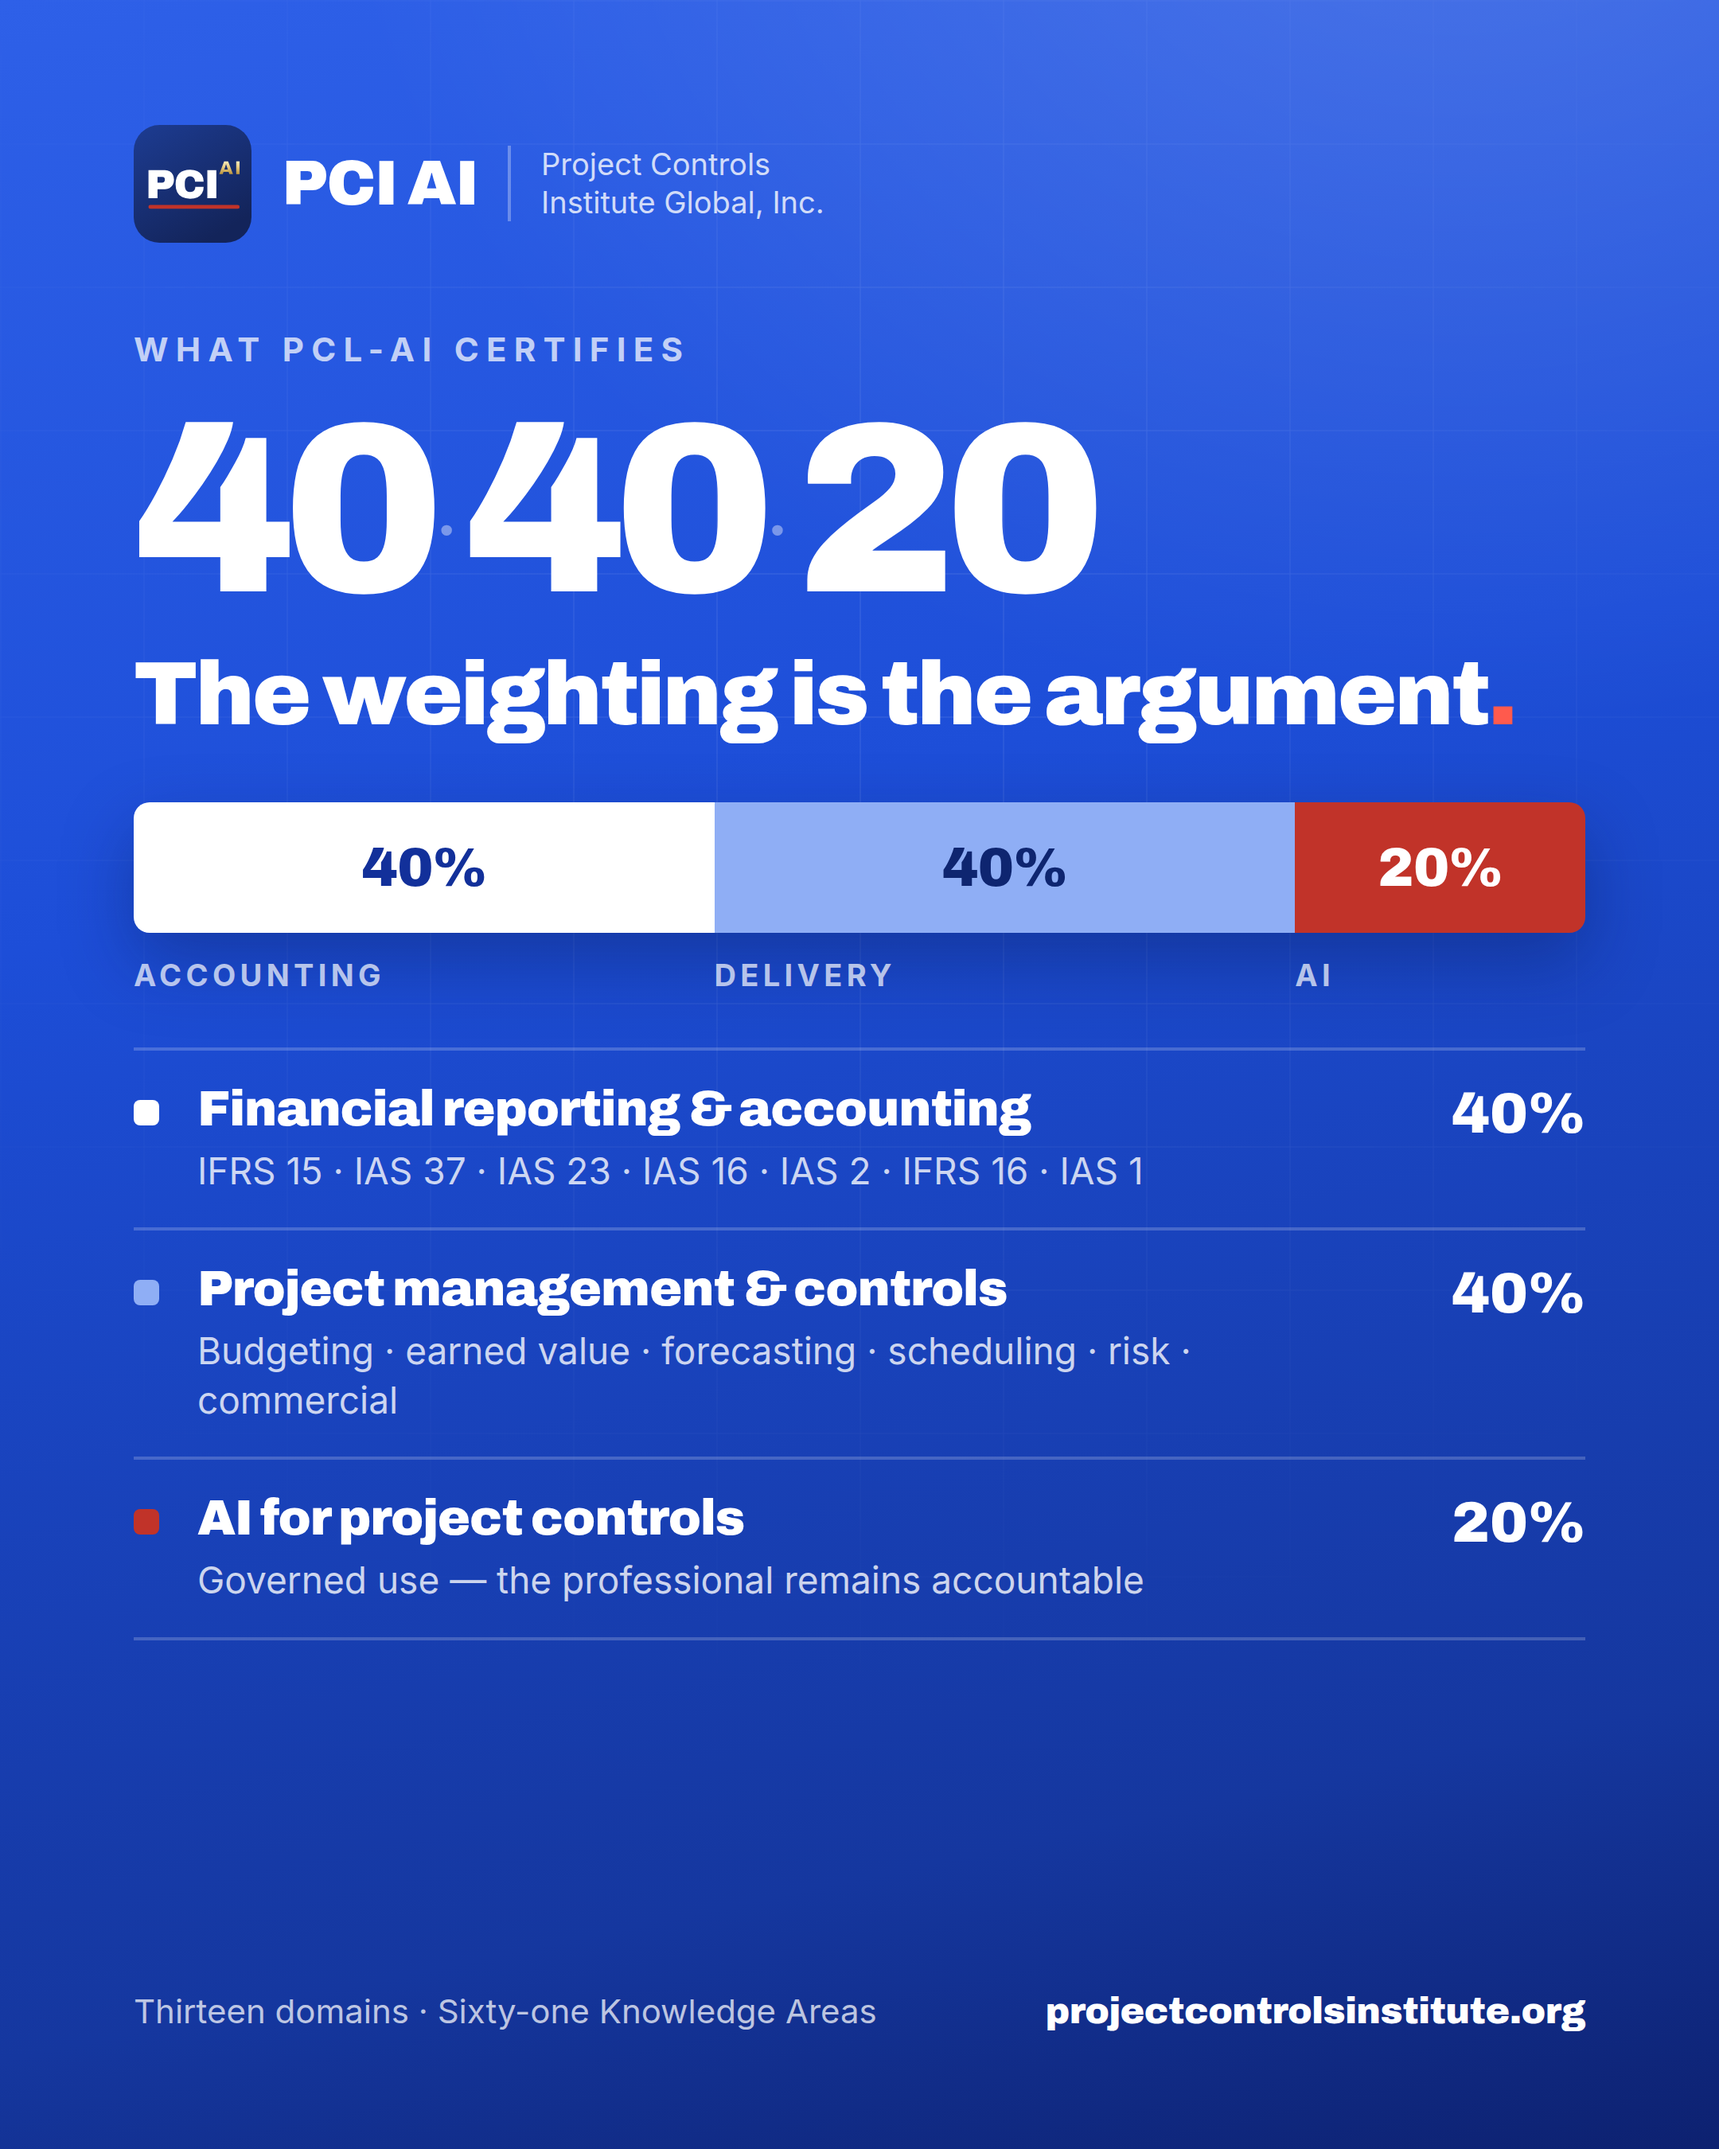
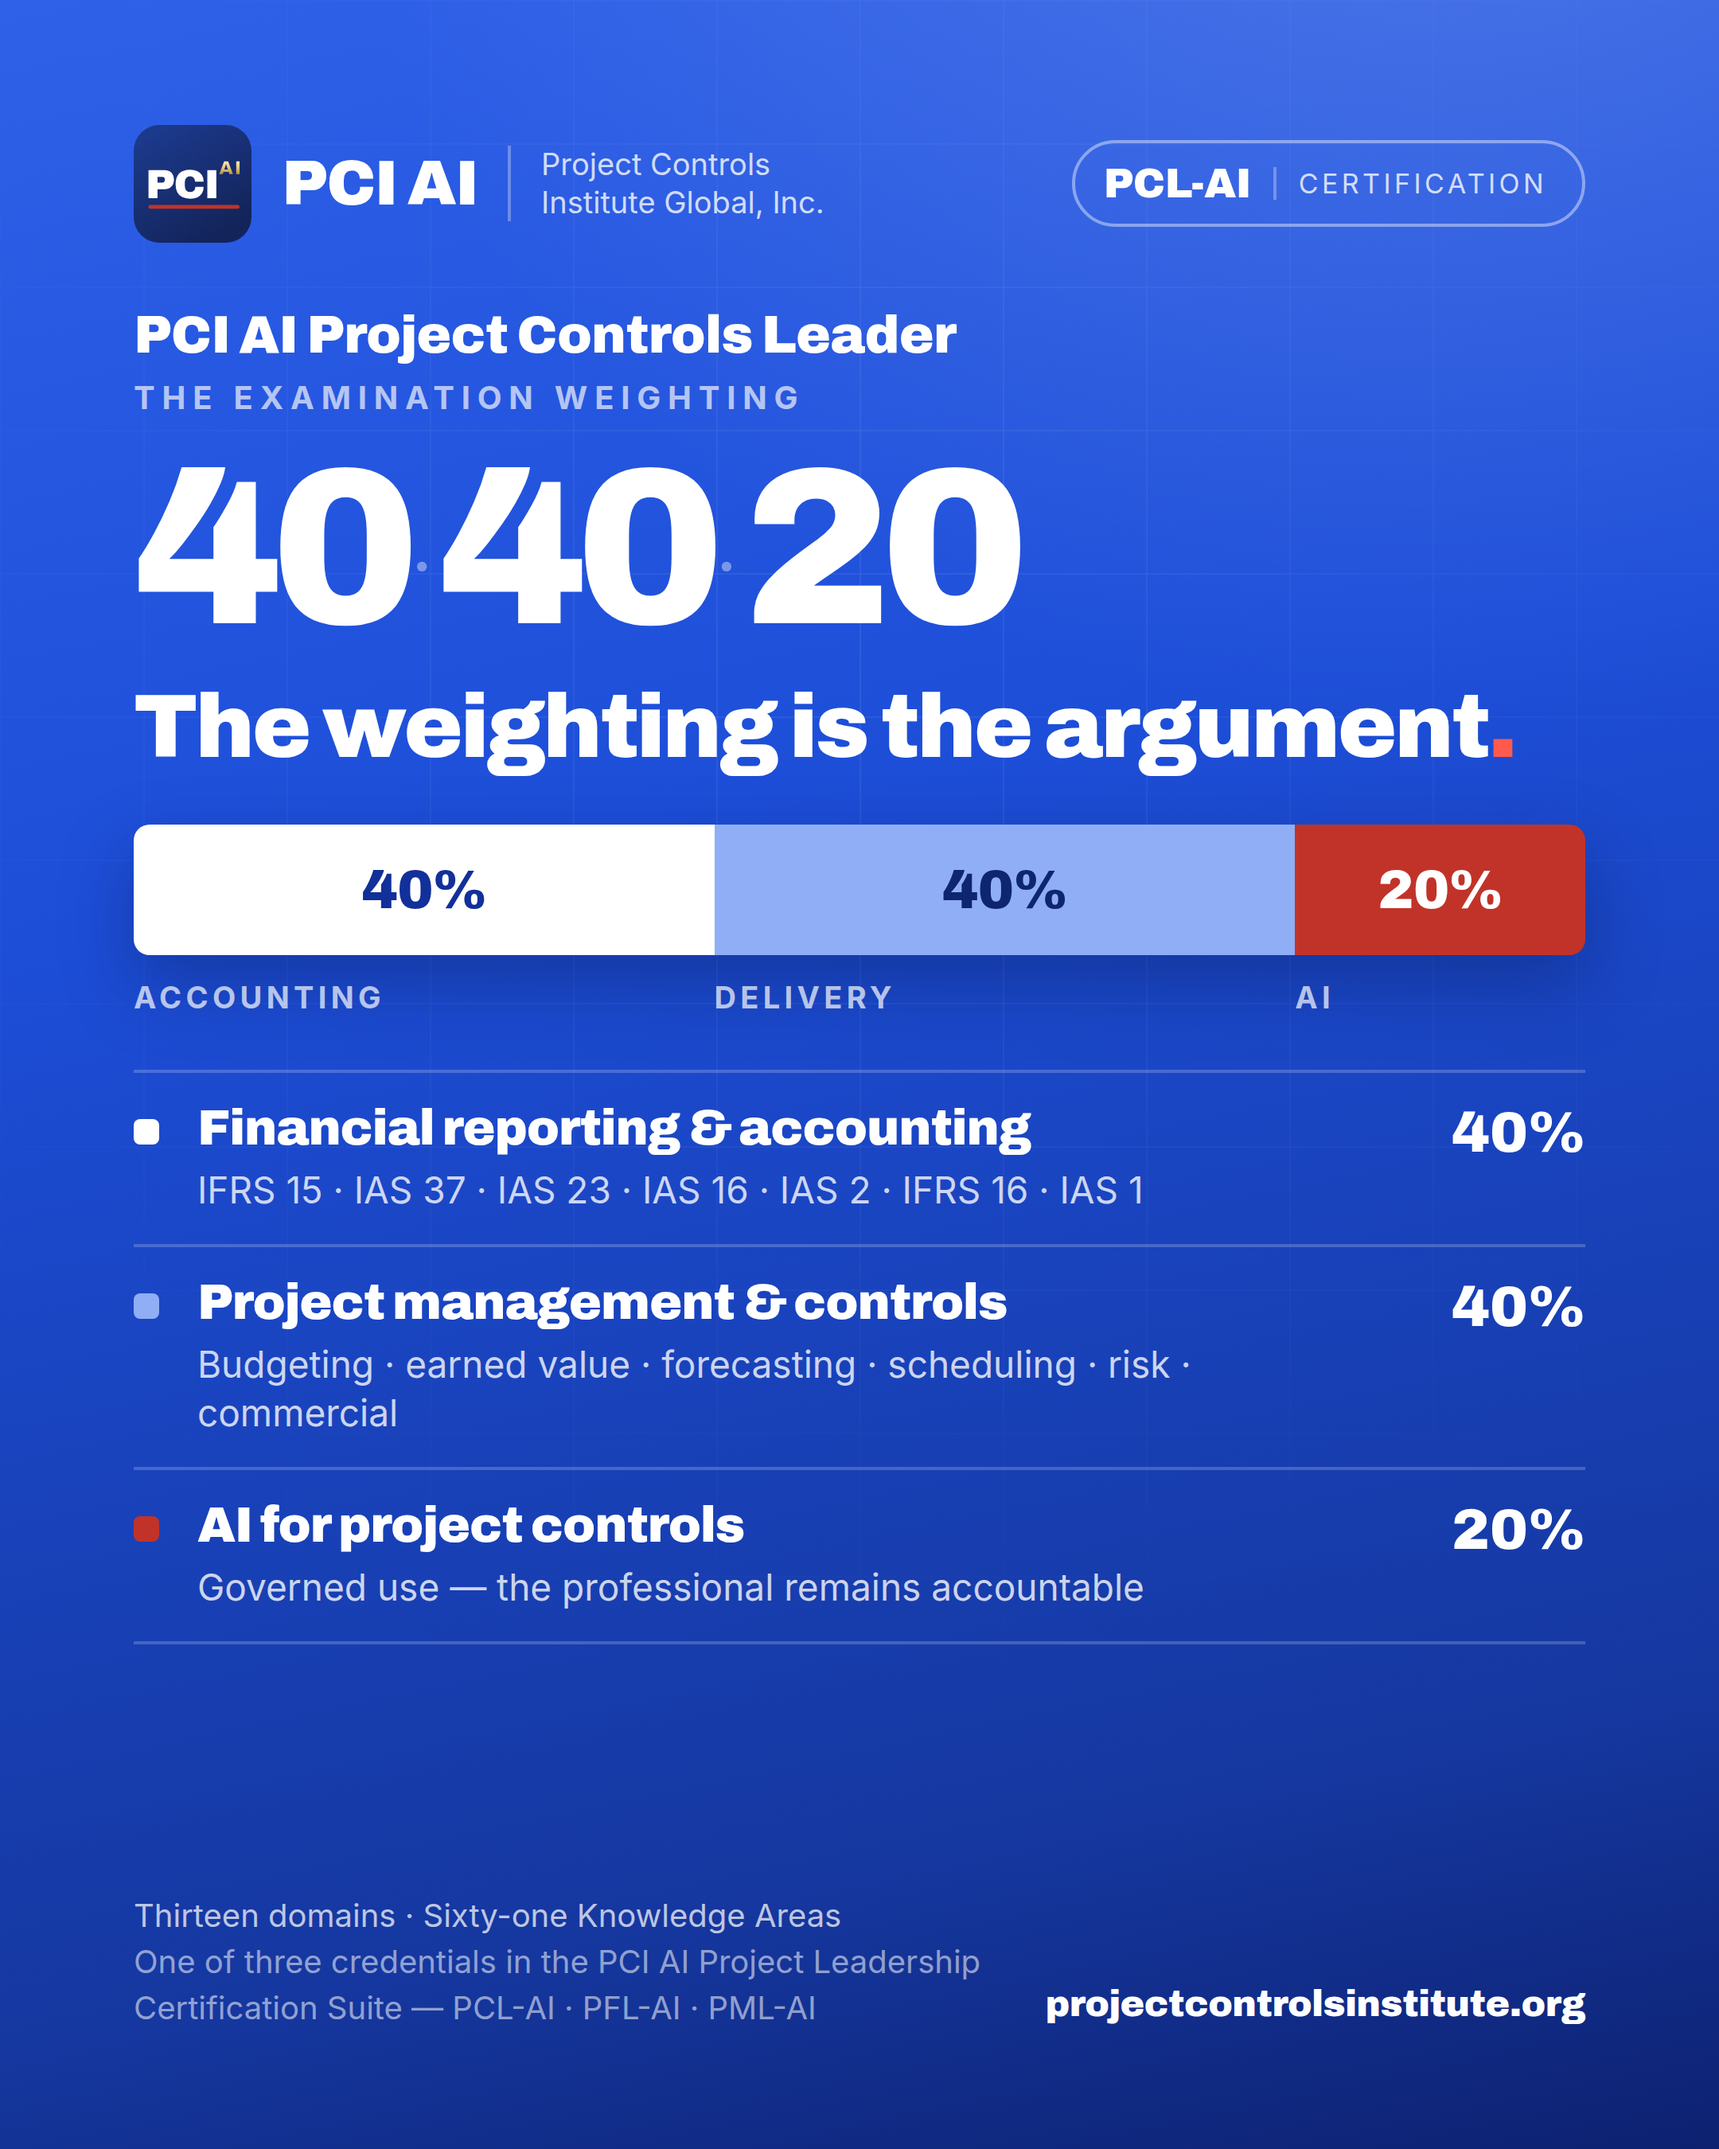
Name the credential on the 40-40-20 graphic
The Institute certifies three credentials, and the graphic only carried "PCL-AI"
inside a small eyebrow. Anyone seeing it in a feed could reasonably take the
40/40/20 weighting for the finance or the management credential.

The credential is now unmistakable and stated three ways: a bordered PCL-AI badge
on the lockup row, "PCI AI Project Controls Leader" set as a display line above
the figure, and a footer note placing it as one of three in the PCI AI Project
Leadership Certification Suite alongside PFL-AI and PML-AI. The eyebrow now says
what the number is — the examination weighting — rather than repeating the code.

Also hardens build_social.py. Serving from the wrong directory made Chromium
render its 404 page, and the verifier passed it: the error page is white and
uniform, so the discontinuity check found nothing to complain about. It now tests
that the frame is predominantly the brand ground before testing that it is
complete, so a bad URL fails loudly instead of shipping a blank image.

Claude-Session: https://claude.ai/code/session_018o2cJ1A2pNG3zsob3NGVvY

diff --git a/docs/formula-sheets/social/pcl-ai-40-40-20.html b/docs/formula-sheets/social/pcl-ai-40-40-20.html
@@ -24,22 +24,30 @@ body{font-family:'Inter',sans-serif;color:#fff;overflow:hidden}
 }
 .card>*{position:relative;z-index:1}
 
-.lockup{display:flex;align-items:center;margin-bottom:54px}
+.lockup{display:flex;align-items:center;margin-bottom:40px}
 .lockup img{width:74px;height:74px}
 .lockup .w{font-family:'Archivo';font-weight:900;font-size:40px;letter-spacing:-.02em;margin-left:19px}
 .lockup .o{font-size:19px;line-height:1.25;margin-left:19px;padding-left:19px;
   border-left:2px solid rgba(255,255,255,.3);color:rgba(255,255,255,.8)}
 
-.eyebrow{font-size:21px;font-weight:700;letter-spacing:.22em;text-transform:uppercase;
-  color:rgba(255,255,255,.72);margin-bottom:22px}
+.lockup .badge{margin-left:auto;display:flex;align-items:center;gap:14px;
+  border:2px solid rgba(255,255,255,.42);border-radius:999px;padding:11px 22px 11px 18px}
+.lockup .badge b{font-family:'Archivo';font-weight:900;font-size:26px;letter-spacing:-.01em}
+.lockup .badge span{font-size:17px;letter-spacing:.13em;text-transform:uppercase;
+  color:rgba(255,255,255,.8);border-left:2px solid rgba(255,255,255,.3);padding-left:14px}
 
-.hero{font-family:'Archivo';font-weight:900;font-size:152px;line-height:.88;
+.credential{font-family:'Archivo';font-weight:900;font-size:33px;letter-spacing:-.012em;
+  margin-bottom:9px}
+.eyebrow{font-size:20px;font-weight:700;letter-spacing:.22em;text-transform:uppercase;
+  color:rgba(255,255,255,.68);margin-bottom:20px}
+
+.hero{font-family:'Archivo';font-weight:900;font-size:140px;line-height:.9;
   letter-spacing:-.05em;font-variant-numeric:tabular-nums;margin-bottom:20px}
 .hero .sep{font-family:'Inter',sans-serif;font-weight:700;color:rgba(255,255,255,.4);
   font-size:.26em;vertical-align:.62em;letter-spacing:.06em;margin:0 .06em}
 
 .head{font-family:'Archivo';font-weight:900;font-size:56px;line-height:1.04;
-  letter-spacing:-.03em;margin-bottom:38px}
+  letter-spacing:-.03em;margin-bottom:32px}
 .dot{color:#FF5A4D}
 
 /* the proportional bar — the point of the whole graphic */
@@ -57,7 +65,7 @@ body{font-family:'Inter',sans-serif;color:#fff;overflow:hidden}
 .barkey span:nth-child(3){width:20%}
 
 .rows{flex:0 0 auto}
-.row{display:flex;gap:24px;padding:20px 0;border-top:2px solid rgba(255,255,255,.2)}
+.row{display:flex;gap:24px;padding:18px 0;border-top:2px solid rgba(255,255,255,.2)}
 .row:last-child{border-bottom:2px solid rgba(255,255,255,.2)}
 .chip{width:16px;height:16px;border-radius:4px;margin-top:11px;flex:none}
 .c1{background:#FFFFFF}.c2{background:#8FAEF5}.c3{background:#C13329}
@@ -68,8 +76,8 @@ body{font-family:'Inter',sans-serif;color:#fff;overflow:hidden}
 .pc{font-family:'Archivo';font-weight:900;font-size:36px;width:96px;text-align:right;
   font-variant-numeric:tabular-nums;flex:none}
 
-.foot{display:flex;justify-content:space-between;align-items:baseline;
-  margin-top:auto;padding-top:26px;font-size:21px;color:rgba(255,255,255,.72)}
+.foot{display:flex;justify-content:space-between;align-items:flex-end;gap:40px;line-height:1.45;
+  margin-top:auto;padding-top:24px;font-size:20px;color:rgba(255,255,255,.72)}
 .foot b{font-family:'Archivo';font-weight:900;color:#fff;font-size:23px;letter-spacing:-.01em}
 </style></head><body>
 <div class="card">
@@ -78,9 +86,11 @@ body{font-family:'Inter',sans-serif;color:#fff;overflow:hidden}
     <img src="/backend/wwwroot/assets/logo.svg" alt="">
     <span class="w">PCI AI</span>
     <span class="o">Project Controls<br>Institute Global, Inc.</span>
+    <span class="badge"><b>PCL-AI</b><span>Certification</span></span>
   </div>
 
-  <div class="eyebrow">What PCL-AI certifies</div>
+  <div class="credential">PCI AI Project Controls Leader</div>
+  <div class="eyebrow">The examination weighting</div>
   <div class="hero">40<span class="sep">·</span>40<span class="sep">·</span>20</div>
   <div class="head">The weighting is the argument<span class="dot">.</span></div>
 
@@ -113,7 +123,9 @@ body{font-family:'Inter',sans-serif;color:#fff;overflow:hidden}
   </div>
 
   <div class="foot">
-    <span>Thirteen domains · Sixty-one Knowledge Areas</span>
+    <span>Thirteen domains · Sixty-one Knowledge Areas<br>
+      <em style="font-style:normal;color:rgba(255,255,255,.55)">One of three credentials in the PCI AI Project Leadership Certification Suite —
+      PCL-AI · PFL-AI · PML-AI</em></span>
     <b>projectcontrolsinstitute.org</b>
   </div>
 

diff --git a/docs/formula-sheets/social/build_social.py b/docs/formula-sheets/social/build_social.py
@@ -72,8 +72,18 @@ def render(name: str, overhead: int) -> pathlib.Path:
 
 
 def verify(path: pathlib.Path) -> None:
-    """The frame must be fully painted — no background strip left at the foot."""
+    """The frame must be fully painted, and must actually be the graphic.
+
+    A wrong URL renders Chromium's error page, which is white, uniform, and sails
+    through a discontinuity check — so test that the frame is predominantly the
+    brand ground before testing that it is complete.
+    """
     im = Image.open(path).convert("RGB")
+    sample = list(im.resize((40, 50)).getdata())
+    blueish = sum(1 for r, g, b in sample if b > r + 25 and b > 60)
+    if blueish < len(sample) * 0.5:
+        raise SystemExit(f"FAIL {path.name}: frame is not the brand ground — bad URL or failed render")
+
     prev, steps = None, []
     for y in range(im.height - 1, int(im.height * 0.85), -4):
         px = im.getpixel((40, y))
